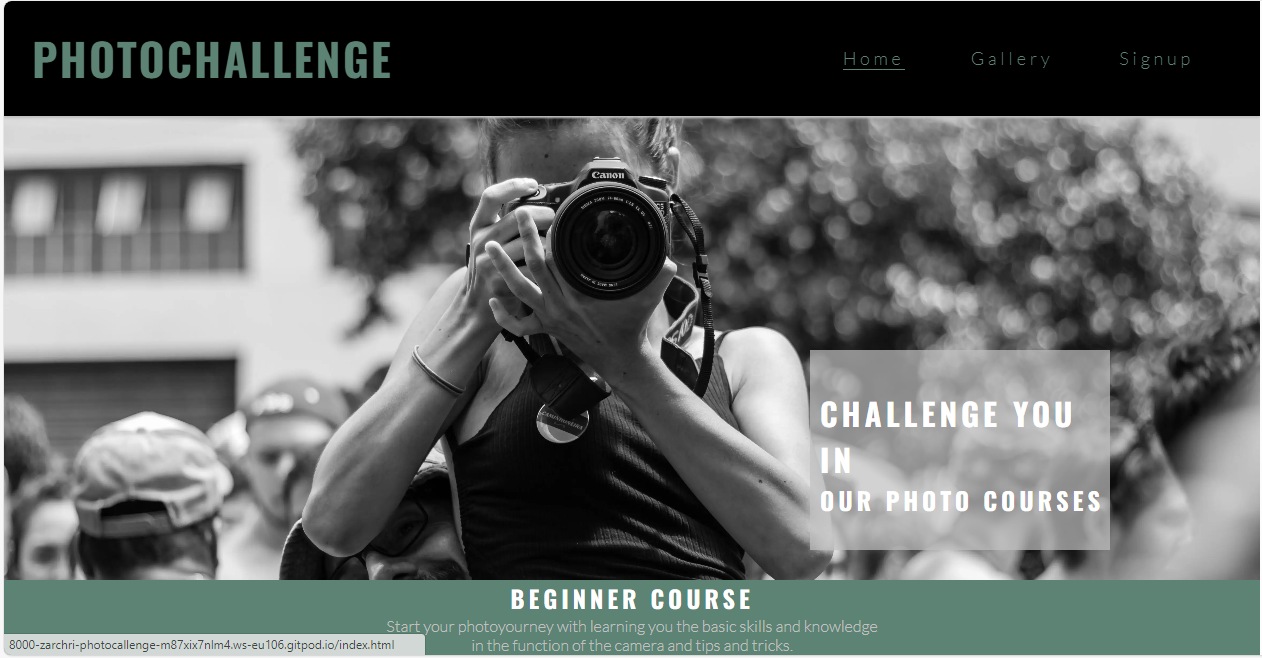
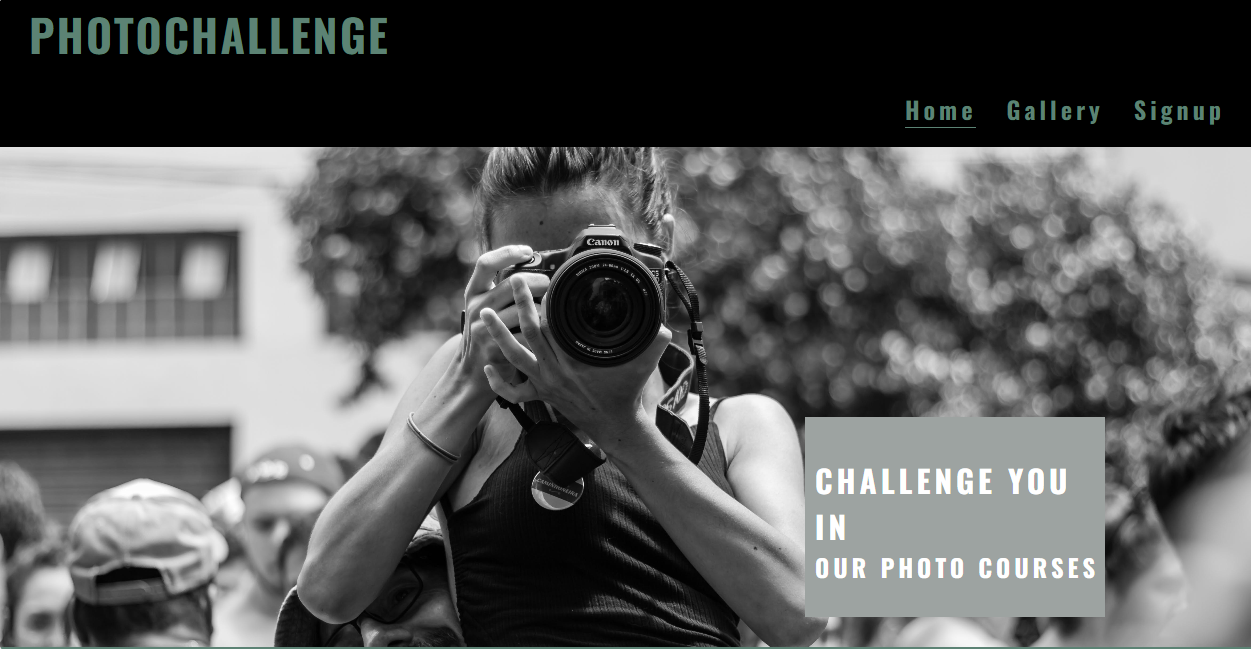
added content in the testing file

diff --git a/assets/css/style.css b/assets/css/style.css
@@ -244,6 +244,7 @@ margin-top: auto;
     box-shadow: 4px 4px 8px #303030;
     font-size: 15px;;
     margin: 400px 0 0 100px;
+    
 }
 
 .fa-solid {
@@ -319,7 +320,7 @@ color: black;
 
 /*larger devices (laptops and desktop, 992px and up)*/
 @media screen and (max-width: 1200px) {
-    #menu a :hover {
+    #menu a:hover {
         border-bottom: 1px solid #ffffff;
     }
 
@@ -355,7 +356,7 @@ color: black;
 
 
 @media screen and (max-width: 653px) {
-    #menu a :hover {
+    #menu a:hover {
         border-bottom: 1px solid #ffffff;
     }
 
@@ -396,7 +397,7 @@ color: black;
 
 
 @media screen and (max-width: 420px) {
-    #menu a :hover {
+    #menu a:hover {
         border-bottom: 1px solid #ffffff;
     }
 
@@ -410,12 +411,15 @@ color: black;
     #logo,
     #menu {
         clear: left;
-        float: left;
+        flex: auto;
         margin-left: 30px;
         line-height: 75px;
         font-size: 75%;
+        
 
     }
+
+   
 
     #logo {
         align-items: baseline;

diff --git a/TESTING.md b/TESTING.md
@@ -35,22 +35,17 @@ style.css - Passed.
 
 | Goals | How are they achieved? |
 | :--- | :--- |
-| I want to take part in a pub quiz online and improve my general knowledge. I want to be able to play at any time, anywhere. | The Quiz Arms pulls general knowledge quiz questions from a large variety of topics, much like a pub quiz would do. The site is available for use whenever is convenient to the user. |
+| I was looking for a site there I can sign up in based photocourses | I set up courses who was intressting and some of them in Gothenburg who are a big city |
 | I want the site to be responsive to my device. | I have developed the site with responsiveness in mind. |
-| I want the site to be easy to navigate. | Buttons are used throughout the site for navigation, much like a mobile app. As the site is like a mobile app - I decided that I didn't want to add a navigation bar or footer, as these would make the site look more like a traditional webpage. The page title also acts as a link to the home page.  |
+| I want challege me in photograph and sametime travel more but dont want do it myself | the site efford a couple different phototravell |
 
 `Returning Visitors`
 
 |  Goals | How are they achieved? |
 | :--- | :--- |
-| I want to be able to choose a level of difficulty that I feel is appropriate for me, based on my experience from my first visit to the site. | Users are able to select their own level of difficulty before the game begins. Once they have played they are free to select a different level of difficulty for subsequent games. |
+| I really like the travell and get a lot of friends and get more taste for travel | users are alable to travel in three different places.|
 
-`Frequent Visitors`
 
-| Goals | How are they achieved? |
-| :--- | :--- |
-| I want to be able to adjust the difficulty level to keep improving my knowledge. | Users are able to select their own level of difficulty before the game begins. Once they have played they are free to select a different level of difficulty for subsequent games. |
-| I want to be able to log my high scores to see how I am performing. | Users of the site are able to log their high scores to the high scores page. The top ten results will be displayed. |
 
 - - -
 
@@ -59,28 +54,25 @@ style.css - Passed.
 Full testing was performed on the following devices:
 
 * Laptop:
-  * Macbook Pro 2021 14 inch screen
+  * PC
 * Mobile Devices:
-  * iPhone 13 pro.
-  * iPhone 11 pro.
-  * Phone X.
+  * Samsung Galaxy A04S
+ 
 
 Each device tested the site using the following browsers:
 
-* Google Chrome
-* Safari
-* Firefox
+* Microsoft edges
 
-Additional testing was taken by friends and family on a variety of devices and screen sizes. They reported no issues when playing.
+Additional testing was taken by family
 
-One tester in peer code review stated that the bottom of the play screen was cut off when testing on an iphone SE (2nd gen). I was unable to replicate this issue using google chrome developer tools.
+
 
 `Home Page`
 
 | Feature | Expected Outcome | Testing Performed | Result | Pass/Fail |
 | --- | --- | --- | --- | --- |
 | The Sites title | Link directs the user back to the home page | Clicked title | Home page reloads | Pass |
-| The menu navigation| Direct the user to signup page and yhe gallerypage | Clicked on button | The user directs to the gallery page and the signup page| Pass |
+| The menu navigation| Direct the user to signup page and the gallery page | Clicked on button | The user directs to the gallery page and the signup page| Pass |
 | The footer| Direct the user to the different socialmedialinks | Clicked on button for socialmedia | The user directs to the different socialmediaplattform| Pass |
 
 
@@ -97,18 +89,14 @@ One tester in peer code review stated that the bottom of the play screen was cut
 | Feature | Expected Outcome | Testing Performed | Result | Pass/Fail |
 | --- | --- | --- | --- | --- |
 | The Sites title | Link directs the user back to the home page | Clicked title | directed back to home page | Pass |
-| The signup form | The user can signup easy with the signup-form | write in the information ans click submit | all works and the user directs to the confirmationspage | Pass |
+| The signup form | The user can signup easy with the signup-form | write in the information ans click join | all works and the user directs to the confirmationspage | Pass |
 
-`confirmationspage`
+`confirmations-page`
 
 | Feature | Expected Outcome | Testing Performed | Result | Pass/Fail |
 | --- | --- | --- | --- | --- |
 | The Sites title | Link directs the user back to the home page | Clicked title | Home page reloads | Pass |
-| All buttons - hover effect | All buttons with a black background & white text should change when hovered over to a background colour of white with black text. | Hover over each button on the page | Each button displayed the correct styling when hovered over | Pass |
-| 🍺 Cursor | The 🍺 should display when a user moves the mouse over a button | Moved the mouse over each button to check the cursor changed upon entering the button | The cursor changed from the arrow cursor to the 🍺 cursor | Pass |
-| Go home button | Takes the user back to the home page | Clicked the button | Taken to the home page | Pass |
-| Play button | Takes the user to the beginning of the game page | Clicked the button | Taken to the beginning of the game page to choose a difficulty level | Pass|
-| View high Scores button | Takes the user to the high scores page | Clicked the button | Taken to the high scores page | Pass |
+| A text who confirmate the signupps are succeed | tHe text is showning| Pass |
 
 
 `404 Error Page`
